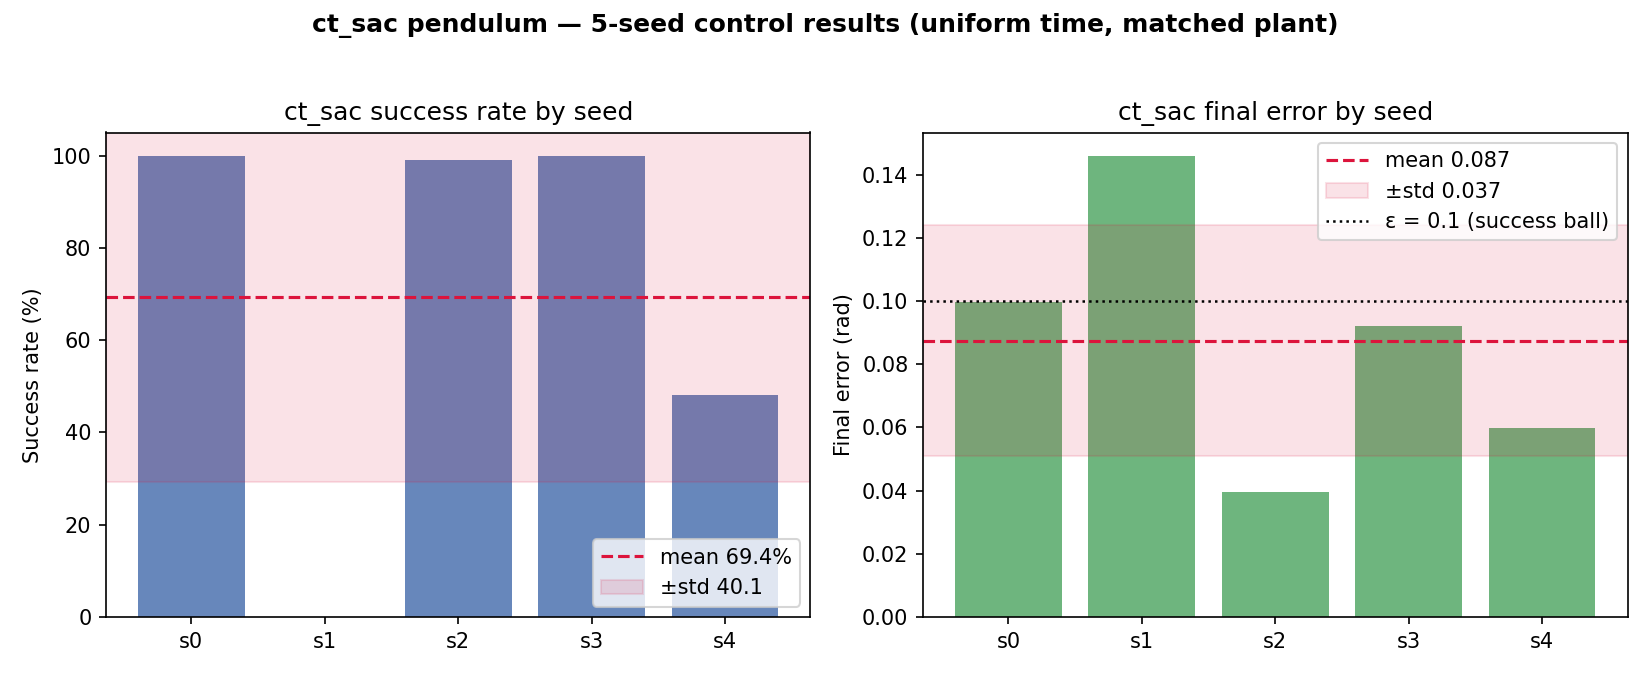
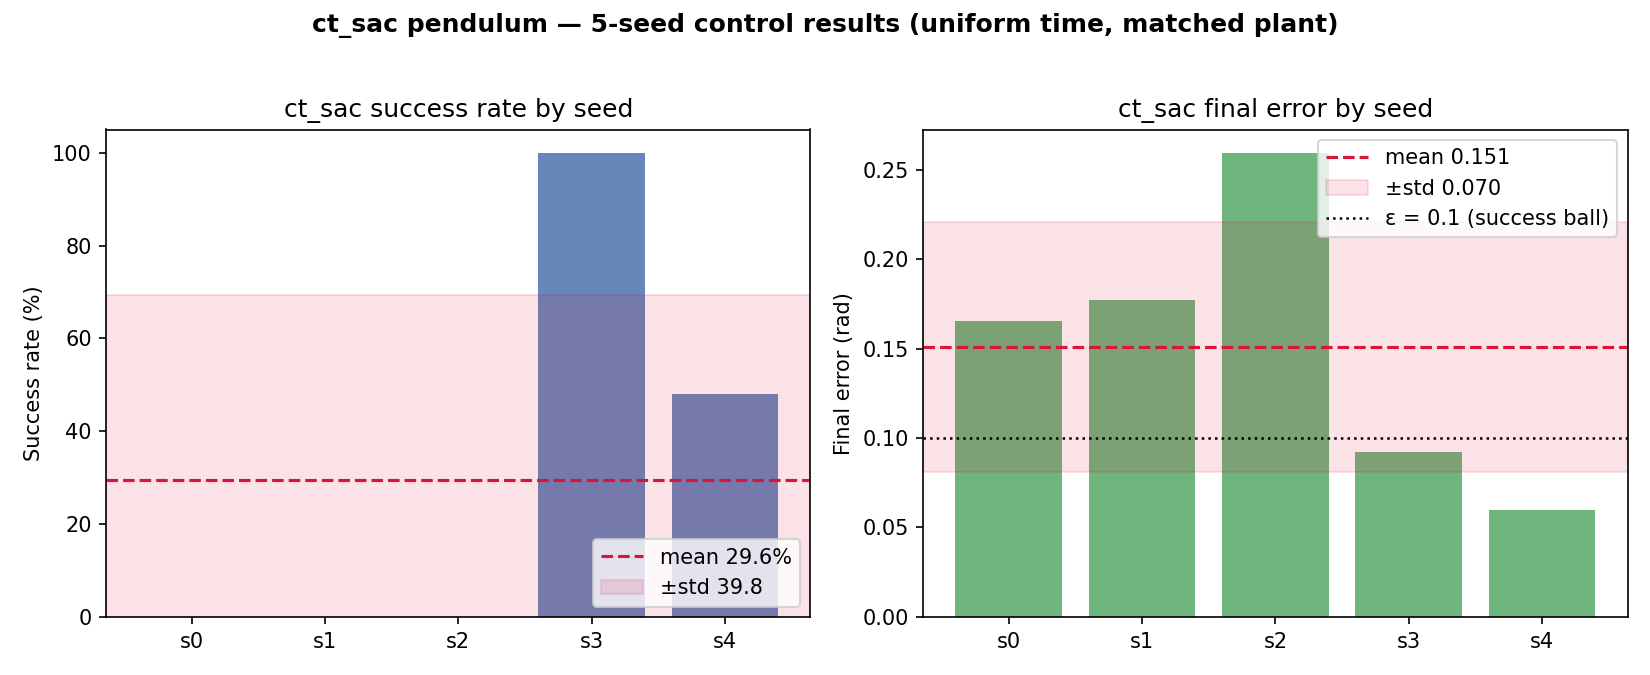
some updates

diff --git a/benchmarks/phase_map.py b/benchmarks/phase_map.py
@@ -1,0 +1,209 @@
+"""
+Phase-map (phase-portrait) visualization for a trained CT-RL policy on the
+pendulum, in support of the Problem-1 "model evaluation" metric.
+
+We roll the deterministic closed-loop system out from a grid of initial
+conditions covering the (angle, angular-velocity) plane and plot the resulting
+orbits. The upright target (theta = pi) is placed at the origin by plotting the
+error angle  phi = wrap(theta - pi)  on the x-axis and  omega = p / I  on the
+y-axis. Each orbit is colored by its final phase-distance to the target
+(viridis_r: dark = converged). The "in-eps & held" count uses the same
+criterion as benchmarks/control_metrics.py: phase distance sqrt(phi^2+omega^2)
+< eps sustained over the final `hold` steps, so it is directly comparable to
+the eval table's success rate (over grid ICs rather than reset-sampled ICs).
+
+Because ct_sac is model-free there is no learned Hamiltonian to compare; the
+phase portrait is the closed-loop flow map Phi_theta^t, which is the level at
+which a model-free controller can sit next to the model-learning methods
+(PHAST, Lie-SPH) on a shared figure.
+
+Examples
+--------
+    python -m benchmarks.phase_map --algo ct_sac --save_root save_seeds --seed 0
+    python -m benchmarks.phase_map --algo ct_sac \
+        --model_path save_seeds/ct_sac/pendulum/top/seed_0/<run>/ct_sac_pendulum_top_200000_steps.pth
+"""
+
+from __future__ import annotations
+
+import argparse
+import math
+from pathlib import Path
+
+import numpy as np
+import matplotlib
+matplotlib.use("Agg")
+import matplotlib.pyplot as plt
+
+from common.utils import load_ct_hyperparams_from_table
+from benchmarks.run_ct_rl import make_ct_env
+from benchmarks.eval_control_metrics import load_ct_policy
+
+
+def wrap_to_pi(x: float) -> float:
+    return math.remainder(x, 2 * math.pi)
+
+
+def pick_checkpoint(save_root: str, algo: str, env_id: str, mode: str, seed: int) -> Path:
+    """Prefer the 200k-step checkpoint, then final_model, then newest .pth."""
+    base = Path(save_root) / algo / env_id / mode / f"seed_{seed}"
+    cands = sorted(base.glob("**/*.pth"), key=lambda p: p.stat().st_mtime)
+    if not cands:
+        raise FileNotFoundError(f"No '*.pth' checkpoint under {base}")
+    for key in ("200000_steps", "final_model"):
+        hit = [c for c in cands if key in c.name]
+        if hit:
+            return hit[-1]
+    return cands[-1]
+
+
+def set_state(env, theta0: float, omega0: float):
+    """Reset the env, then override the physics state to a chosen (theta, omega)."""
+    env.reset(seed=0)
+    env._theta = wrap_to_pi(theta0)
+    env._p = env.I * omega0
+    env._sin_theta = np.sin(env._theta)
+    env._cos_theta = np.cos(env._theta)
+    env._step_index = 0
+    env.cur_t = 0.0
+    if env.q_only:
+        # Pad the position window with the initial measurement (implied v = 0),
+        # exactly as the env does on a normal reset.
+        env._obs_buf[:] = env._measure(env._theta)
+    obs = env._make_obs()
+    env._last_obs = np.asarray(obs, dtype=np.float32)
+    return obs
+
+
+def rollout_orbit(env, policy_fn, theta0, omega0, horizon):
+    """Closed-loop orbit from (theta0, omega0); returns phi[], omega[] arrays."""
+    obs = set_state(env, theta0, omega0)
+    phi, om = [], []
+    for _ in range(horizon):
+        action = np.asarray(policy_fn(obs)).reshape(-1)
+        obs, _, term, trunc, _ = env.step(action)
+        phi.append(wrap_to_pi(env._theta - env._goal))
+        om.append(env._p / env.I)
+        if term or trunc:
+            break
+    return np.asarray(phi), np.asarray(om)
+
+
+def converged(phi, om, eps, hold):
+    """True if the last `hold` samples stay inside the phase-distance eps-ball
+    about upright, sqrt(phi^2 + omega^2) < eps — identical to the success
+    criterion in benchmarks/control_metrics.py. (A per-axis box test is looser
+    in omega and inflates the count.)"""
+    if len(phi) < hold:
+        return False
+    return bool(np.all(np.hypot(phi[-hold:], om[-hold:]) < eps))
+
+
+def break_wrap(phi, om):
+    """Insert NaNs where phi jumps across the +/-pi seam so lines don't streak."""
+    phi = phi.copy().astype(float)
+    jumps = np.where(np.abs(np.diff(phi)) > math.pi)[0]
+    phi_b = np.insert(phi, jumps + 1, np.nan)
+    om_b = np.insert(om.astype(float), jumps + 1, np.nan)
+    return phi_b, om_b
+
+
+def main() -> None:
+    p = argparse.ArgumentParser(description=__doc__)
+    p.add_argument("--algo", default="ct_sac", choices=("ct_sac", "ct_td3", "ct_ddpg"))
+    p.add_argument("--env_id", default="pendulum")
+    p.add_argument("--mode", default="top")
+    p.add_argument("--model_path", default=None)
+    p.add_argument("--save_root", default="save_seeds")
+    p.add_argument("--seed", type=int, default=0)
+    p.add_argument("--hyperparams_dir", default="benchmarks/hyperparams")
+    p.add_argument("--n_theta", type=int, default=13, help="grid points in angle")
+    p.add_argument("--n_omega", type=int, default=9, help="grid points in velocity")
+    p.add_argument("--omega_max", type=float, default=8.0)
+    p.add_argument("--horizon", type=int, default=None,
+                   help="rollout steps per orbit (default: env.max_steps, matching the eval)")
+    p.add_argument("--eps", type=float, default=0.1,
+                   help="phase-distance convergence radius (matches control_metrics)")
+    p.add_argument("--hold", type=int, default=50)
+    p.add_argument("--out", default=None)
+    args = p.parse_args()
+
+    model_path = Path(args.model_path) if args.model_path else pick_checkpoint(
+        args.save_root, args.algo, args.env_id, args.mode, args.seed)
+    print(f"[phase_map] checkpoint: {model_path}")
+
+    _, env_kwargs, model_kwargs, algo_kwargs, _ = load_ct_hyperparams_from_table(
+        algo=args.algo, env_id=args.env_id, mode=args.mode,
+        hyperparams_dir=args.hyperparams_dir)
+    env = make_ct_env(env_id=args.env_id, seed=args.seed, env_kwargs=env_kwargs)
+    policy_fn = load_ct_policy(args.algo, env, model_kwargs, algo_kwargs, model_path)
+
+    # Default to the eval horizon (env.max_steps) so "in-eps & held" judges the
+    # same window as eval_control_metrics; cap at max_steps to avoid truncation.
+    horizon = args.horizon if args.horizon is not None else (env.max_steps or 800)
+    if env.max_steps:
+        horizon = min(horizon, env.max_steps)
+    # Grid of initial conditions: full angle range, symmetric velocity range.
+    thetas = env._goal + np.linspace(-math.pi, math.pi, args.n_theta, endpoint=False)
+    omegas = np.linspace(-args.omega_max, args.omega_max, args.n_omega)
+
+    fig, ax = plt.subplots(figsize=(8.5, 6.5))
+    cmap = plt.get_cmap("viridis_r")
+    norm = matplotlib.colors.Normalize(vmin=0.0, vmax=math.pi)
+
+    n_conv = 0
+    settle_pts = []  # final points of orbits that came near upright
+    for th0 in thetas:
+        for om0 in omegas:
+            phi, om = rollout_orbit(env, policy_fn, float(th0), float(om0), horizon)
+            if len(phi) == 0:
+                continue
+            final_dist = math.hypot(phi[-1], om[-1])
+            n_conv += int(converged(phi, om, args.eps, args.hold))
+            if final_dist < 0.5:
+                settle_pts.append((phi[-1], om[-1]))
+            color = cmap(norm(final_dist))
+            phi_b, om_b = break_wrap(phi, om)
+            ax.plot(phi_b, om_b, color=color, lw=0.8, alpha=0.75, zorder=1)
+            ax.plot(phi[0], om[0], ".", color=color, ms=5, zorder=2)
+
+    # eps-ball, true target, and the empirical attractor the controller reaches.
+    ax.add_patch(plt.Circle((0, 0), args.eps, color="k", fill=False,
+                            ls="--", lw=1.2, zorder=3))
+    ax.plot(0, 0, "*", color="k", ms=16, zorder=5, label="upright target")
+    subtitle = f"in-eps & held: {n_conv}/{args.n_theta * args.n_omega}"
+    if settle_pts:
+        sp = np.asarray(settle_pts)
+        # Show every settle point (not just the mean): if the policy has
+        # multiple attractors (e.g. offsets on both sides of upright), the mean
+        # alone would be misleading — it could even sit at the origin.
+        ax.plot(sp[:, 0], sp[:, 1], ".", color="crimson", ms=4, alpha=0.7, zorder=4)
+        fp = sp.mean(axis=0)
+        spread = float(np.max(np.hypot(sp[:, 0] - fp[0], sp[:, 1] - fp[1])))
+        ax.plot(fp[0], fp[1], "X", color="crimson", ms=12, zorder=5,
+                label=f"attractor mean ($\\varphi$={fp[0]:+.3f}, $\\omega$={fp[1]:+.3f})")
+        subtitle += (f";  settles at dist {math.hypot(*fp):.3f} from upright"
+                     f" (spread {spread:.3f})")
+
+    sm = plt.cm.ScalarMappable(cmap=cmap, norm=norm)
+    cb = fig.colorbar(sm, ax=ax, pad=0.02)
+    cb.set_label("final phase-distance to upright")
+
+    ax.set_xlabel(r"angle from upright  $\varphi = \mathrm{wrap}(\theta-\pi)$  [rad]")
+    ax.set_ylabel(r"angular velocity  $\omega = p/I$  [rad/s]")
+    ax.set_title(f"{args.algo} closed-loop phase map (pendulum, seed {args.seed})\n{subtitle}")
+    ax.set_xlim(-math.pi, math.pi)
+    ax.set_ylim(-args.omega_max, args.omega_max)
+    ax.grid(True, alpha=0.2)
+    ax.legend(loc="upper right", fontsize=8)
+    fig.tight_layout()
+
+    out = args.out or f"results/phase_map_{args.algo}_seed{args.seed}.png"
+    Path(out).parent.mkdir(parents=True, exist_ok=True)
+    fig.savefig(out, dpi=150)
+    print(f"[phase_map] in-eps & held: {n_conv}/{args.n_theta * args.n_omega}")
+    print(f"[phase_map] saved: {out}")
+
+
+if __name__ == "__main__":
+    main()

diff --git a/benchmarks/eval_control_metrics.py b/benchmarks/eval_control_metrics.py
@@ -44,13 +44,29 @@ SB3_ALGOS = ("sac", "td3", "ppo", "trpo")
 
 
 def find_model(save_root: str, algo: str, env_id: str, mode: str, seed: int, ext: str) -> Path:
-    """Newest checkpoint with the given extension under the run's save dir."""
+    """Final-of-training checkpoint under the run's save dir.
+
+    We deliberately prefer the end-of-training checkpoint (200000_steps, then
+    final_model) over best_model.pth. best_model is the peak-*eval-reward*
+    snapshot (common/callbacks.py EvalCallback), which (a) is selected on a
+    different objective than the reported success/final_error/effort metrics and
+    (b) has no analogue in the frozen-after-training Casimir controllers, so
+    citing it would give RL an asymmetric cherry-picking advantage. This mirrors
+    phase_map.pick_checkpoint so the metrics table and phase maps use the same
+    policy. best_model belongs only in the learning-curve view, not the
+    head-to-head point comparison.
+    """
     base = Path(save_root) / algo / env_id / mode / f"seed_{seed}"
     cands = sorted(base.glob(f"**/*{ext}"), key=lambda p: p.stat().st_mtime)
     if not cands:
         raise FileNotFoundError(f"No '*{ext}' checkpoint under {base}")
-    best = [c for c in cands if "best" in c.name.lower()]
-    return (best or cands)[-1]
+    for key in ("200000_steps", "final_model"):
+        hit = [c for c in cands if key in c.name]
+        if hit:
+            return hit[-1]
+    # Fall back to newest non-best checkpoint, else newest of all.
+    nonbest = [c for c in cands if "best" not in c.name.lower()]
+    return (nonbest or cands)[-1]
 
 
 def load_ct_policy(algo, env, model_kwargs, algo_kwargs, model_path) -> Callable:
